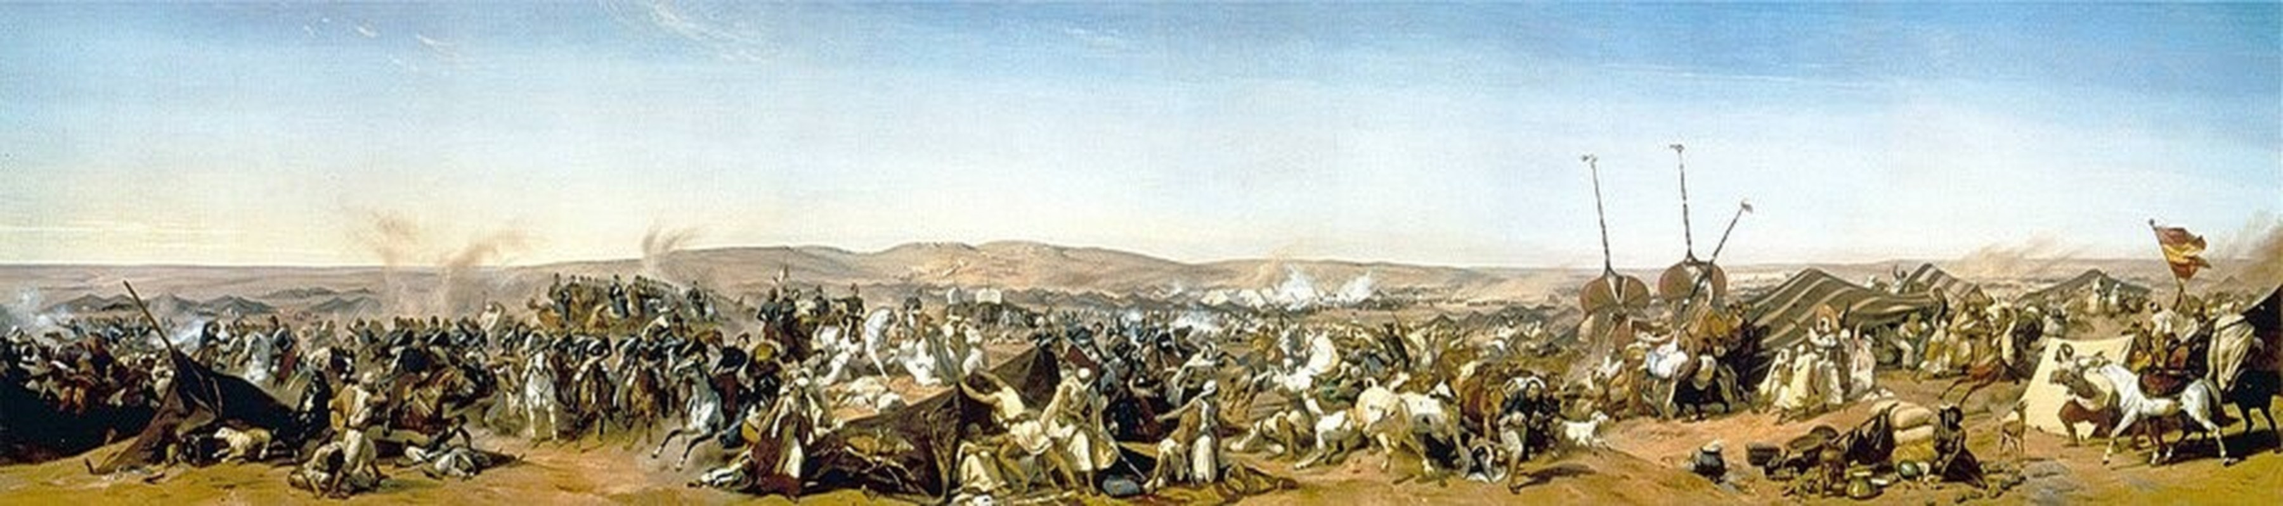
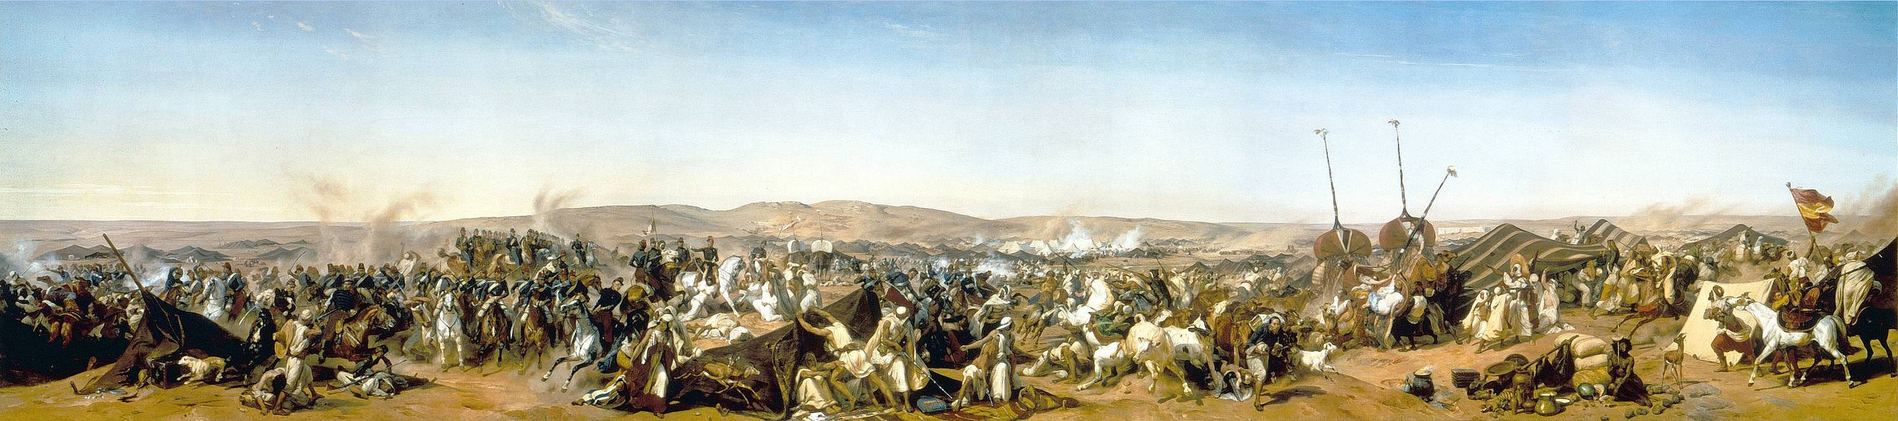
Salle secrète home cinéma, Smalah HD, inscription WikiMuseum, fléchage au sol
Claude-Session: https://claude.ai/code/session_01H165k6ZwgKF7W3PAdfAXpL

diff --git a/index.html b/index.html
@@ -108,7 +108,7 @@ button:focus-visible{outline:2px solid var(--gilt);outline-offset:2px}
 
 <script src="https://cdnjs.cloudflare.com/ajax/libs/three.js/r128/three.min.js"></script>
 <script>
-const ART = {"falaises": {"src": "img/falaises.jpg", "a": 1.251}, "meragitee": {"src": "img/meragitee.jpg", "a": 1.241}, "trouville": {"src": "img/trouville.jpg", "a": 1.215}, "tilleuls": {"src": "img/tilleuls.jpg", "a": 0.798}, "peupliers": {"src": "img/peupliers.jpg", "a": 0.988}, "grandcanal": {"src": "img/grandcanal.jpg", "a": 1.259}, "bassin": {"src": "img/bassin.jpg", "a": 1.018}, "nympheas": {"src": "img/nympheas.jpg", "a": 1.662}, "ombrelle": {"src": "img/ombrelle.jpg", "a": 0.677}, "irene": {"src": "img/irene.jpg", "a": 0.831}, "durandruel": {"src": "img/durandruel.jpg", "a": 0.798}, "murer": {"src": "img/murer.jpg", "a": 0.832}, "nucouche": {"src": "img/nucouche.jpg", "a": 1.253}, "longchamp": {"src": "img/longchamp.jpg", "a": 1.227}, "terrasse": {"src": "img/terrasse.jpg", "a": 0.802}, "amandier": {"src": "img/amandier.jpg", "a": 1.267}, "iris": {"src": "img/iris.jpg", "a": 1.308}, "cypres": {"src": "img/cypres.jpg", "a": 0.793}, "paysanne": {"src": "img/paysanne.jpg", "a": 0.767}, "breton": {"src": "img/breton.jpg", "a": 1.441}, "iaorana": {"src": "img/iaorana.jpg", "a": 0.776}, "arearea": {"src": "img/arearea.jpg", "a": 1.641}, "victoire": {"src": "img/victoire.jpg", "a": 1.261}, "chaise": {"src": "img/chaise.jpg", "a": 0.78}, "tournesols": {"src": "img/tournesols.jpg", "a": 1.253}, "danse2": {"src": "img/danse2.jpg", "a": 1.452}, "joie": {"src": "img/joie.jpg", "a": 1.376}, "odalisque": {"src": "img/odalisque.jpg", "a": 0.743}, "femmeartiste": {"src": "img/femmeartiste.jpg", "a": 0.656}, "collioure": {"src": "img/collioure.jpg", "a": 1.23}, "derain": {"src": "img/derain.jpg", "a": 1.471}, "chakoska": {"src": "img/chakoska.jpg", "a": 0.551}, "alger": {"src": "img/alger.jpg", "a": 1.659}, "promenade": {"src": "img/promenade.jpg", "a": 0.819}, "montbriand": {"src": "img/montbriand.jpg", "a": 1.235}, "pastorale": {"src": "img/pastorale.jpg", "a": 1.14}, "artilleurs": {"src": "img/artilleurs.jpg", "a": 1.251}, "probleme": {"src": "img/probleme.jpg", "a": 1.629}, "fermeprov": {"src": "img/fermeprov.jpg", "a": 1.326}, "tortoni": {"src": "img/tortoni.jpg", "a": 1.329}, "fenetre": {"src": "img/fenetre.jpg", "a": 0.69}, "femmesalger": {"src": "img/femmesalger.jpg", "a": 1.285}, "moulin": {"src": "img/moulin.jpg", "a": 1.345}, "friedsoleil": {"src": "img/friedsoleil.jpg", "a": 1.389}, "saintadresse": {"src": "img/saintadresse.jpg", "a": 1.376}, "musiciens": {"src": "img/musiciens.jpg", "a": 1.315}, "vague": {"src": "img/vague.jpg", "a": 1.488}, "gonzague": {"src": "img/gonzague.jpg", "a": 0.737}, "botticelli": {"src": "img/botticelli.jpg", "a": 1.024}, "parmigianino": {"src": "img/parmigianino.jpg", "a": 0.426}, "gardeuse": {"src": "img/gardeuse.jpg", "a": 0.475}, "satyres": {"src": "img/satyres.jpg", "a": 0.757}, "giorgione": {"src": "img/giorgione.jpg", "a": 0.893}, "sibylle": {"src": "img/sibylle.jpg", "a": 0.831}, "fontaine": {"src": "img/fontaine.jpg", "a": 0.504}, "ottmann": {"src": "img/ottmann.jpg", "a": 1.304}, "ruines": {"src": "img/ruines.jpg", "a": 1.107}, "communiante": {"src": "img/communiante.jpg", "a": 0.674}, "repine": {"src": "img/repine.jpg", "a": 0.672}, "soirnuages": {"src": "img/soirnuages.jpg", "a": 1.449}, "lippi": {"src": "img/lippi.jpg", "a": 0.694}, "parthenon": {"src": "img/parthenon.jpg", "a": 1.627}, "saintluc": {"src": "img/saintluc.jpg", "a": 0.919}, "fideles": {"src": "img/fideles.jpg", "a": 1.0}, "abricots": {"src": "img/abricots.jpg", "a": 1.62}, "clavecin": {"src": "img/clavecin.jpg", "a": 0.644}, "vieille": {"src": "img/vieille.jpg", "a": 0.655}, "ermita": {"src": "img/ermita.jpg", "a": 1.052}, "daubigny": {"src": "img/daubigny.jpg", "a": 1.627}, "abraham": {"src": "img/abraham.jpg", "a": 1.28}, "rochejaquelein": {"src": "img/rochejaquelein.jpg", "a": 0.639}, "cordoba": {"src": "img/cordoba.jpg", "a": 0.721}, "sanadrian": {"src": "img/sanadrian.jpg", "a": 0.596}, "tobie": {"src": "img/tobie.jpg", "a": 0.49}, "puitsnoir": {"src": "img/puitsnoir.jpg", "a": 1.34}, "pecheurs": {"src": "img/pecheurs.jpg", "a": 1.329}, "adoration": {"src": "img/adoration.jpg", "a": 0.711}, "goodhart": {"src": "img/goodhart.jpg", "a": 0.566}, "grandpere": {"src": "img/grandpere.jpg", "a": 0.755}, "vertueuse": {"src": "img/vertueuse.jpg", "a": 0.743}, "greuze": {"src": "img/greuze.jpg", "a": 0.833}, "mestre": {"src": "img/mestre.jpg", "a": 1.471}, "titien": {"src": "img/titien.jpg", "a": 0.573}, "okazaki": {"src": "img/okazaki.jpg", "a": 1.453}, "messine": {"src": "img/messine.jpg", "a": 1.365}, "portinari": {"src": "img/portinari.jpg", "a": 0.738}, "dansevie": {"src": "img/dansevie.jpg", "a": 1.524}, "apollon": {"src": "img/apollon.jpg", "a": 0.677}, "cantique": {"src": "img/cantique.jpg", "a": 1.07}, "toton": {"src": "img/toton.jpg", "a": 1.145}, "assomption": {"src": "img/assomption.jpg", "a": 0.512}, "falstaff": {"src": "img/falstaff.jpg", "a": 1.251}, "coree": {"src": "img/coree.jpg", "a": 0.483}, "victorienne": {"src": "img/victorienne.jpg", "a": 1.222}, "bainturc": {"src": "img/bainturc.jpg", "a": 0.799}, "drapeaux": {"src": "img/drapeaux.jpg", "a": 1.276}, "automne": {"src": "img/automne.jpg", "a": 0.75}, "eustache": {"src": "img/eustache.jpg", "a": 1.215}, "leversoleil": {"src": "img/leversoleil.jpg", "a": 1.354}, "peche": {"src": "img/peche.jpg", "a": 2.286}, "marcaurele": {"src": "img/marcaurele.jpg", "a": 1.287}, "fayoum": {"src": "img/fayoum.jpg", "a": 0.466}, "arbrevie": {"src": "img/arbrevie.jpg", "a": 0.527}, "lapicque": {"src": "img/lapicque.jpg", "a": 0.871}, "smalah": {"src": "img/smalah.jpg", "a": 4.507}, "balancoire": {"src": "img/balancoire.jpg", "a": 0.783}};
+const ART = {"falaises": {"src": "img/falaises.jpg", "a": 1.251}, "meragitee": {"src": "img/meragitee.jpg", "a": 1.241}, "trouville": {"src": "img/trouville.jpg", "a": 1.215}, "tilleuls": {"src": "img/tilleuls.jpg", "a": 0.798}, "peupliers": {"src": "img/peupliers.jpg", "a": 0.988}, "grandcanal": {"src": "img/grandcanal.jpg", "a": 1.259}, "bassin": {"src": "img/bassin.jpg", "a": 1.018}, "nympheas": {"src": "img/nympheas.jpg", "a": 1.662}, "ombrelle": {"src": "img/ombrelle.jpg", "a": 0.677}, "irene": {"src": "img/irene.jpg", "a": 0.831}, "durandruel": {"src": "img/durandruel.jpg", "a": 0.798}, "murer": {"src": "img/murer.jpg", "a": 0.832}, "nucouche": {"src": "img/nucouche.jpg", "a": 1.253}, "longchamp": {"src": "img/longchamp.jpg", "a": 1.227}, "terrasse": {"src": "img/terrasse.jpg", "a": 0.802}, "amandier": {"src": "img/amandier.jpg", "a": 1.267}, "iris": {"src": "img/iris.jpg", "a": 1.308}, "cypres": {"src": "img/cypres.jpg", "a": 0.793}, "paysanne": {"src": "img/paysanne.jpg", "a": 0.767}, "breton": {"src": "img/breton.jpg", "a": 1.441}, "iaorana": {"src": "img/iaorana.jpg", "a": 0.776}, "arearea": {"src": "img/arearea.jpg", "a": 1.641}, "victoire": {"src": "img/victoire.jpg", "a": 1.261}, "chaise": {"src": "img/chaise.jpg", "a": 0.78}, "tournesols": {"src": "img/tournesols.jpg", "a": 1.253}, "danse2": {"src": "img/danse2.jpg", "a": 1.452}, "joie": {"src": "img/joie.jpg", "a": 1.376}, "odalisque": {"src": "img/odalisque.jpg", "a": 0.743}, "femmeartiste": {"src": "img/femmeartiste.jpg", "a": 0.656}, "collioure": {"src": "img/collioure.jpg", "a": 1.23}, "derain": {"src": "img/derain.jpg", "a": 1.471}, "chakoska": {"src": "img/chakoska.jpg", "a": 0.551}, "alger": {"src": "img/alger.jpg", "a": 1.659}, "promenade": {"src": "img/promenade.jpg", "a": 0.819}, "montbriand": {"src": "img/montbriand.jpg", "a": 1.235}, "pastorale": {"src": "img/pastorale.jpg", "a": 1.14}, "artilleurs": {"src": "img/artilleurs.jpg", "a": 1.251}, "probleme": {"src": "img/probleme.jpg", "a": 1.629}, "fermeprov": {"src": "img/fermeprov.jpg", "a": 1.326}, "tortoni": {"src": "img/tortoni.jpg", "a": 1.329}, "fenetre": {"src": "img/fenetre.jpg", "a": 0.69}, "femmesalger": {"src": "img/femmesalger.jpg", "a": 1.285}, "moulin": {"src": "img/moulin.jpg", "a": 1.345}, "friedsoleil": {"src": "img/friedsoleil.jpg", "a": 1.389}, "saintadresse": {"src": "img/saintadresse.jpg", "a": 1.376}, "musiciens": {"src": "img/musiciens.jpg", "a": 1.315}, "vague": {"src": "img/vague.jpg", "a": 1.488}, "gonzague": {"src": "img/gonzague.jpg", "a": 0.737}, "botticelli": {"src": "img/botticelli.jpg", "a": 1.024}, "parmigianino": {"src": "img/parmigianino.jpg", "a": 0.426}, "gardeuse": {"src": "img/gardeuse.jpg", "a": 0.475}, "satyres": {"src": "img/satyres.jpg", "a": 0.757}, "giorgione": {"src": "img/giorgione.jpg", "a": 0.893}, "sibylle": {"src": "img/sibylle.jpg", "a": 0.831}, "fontaine": {"src": "img/fontaine.jpg", "a": 0.504}, "ottmann": {"src": "img/ottmann.jpg", "a": 1.304}, "ruines": {"src": "img/ruines.jpg", "a": 1.107}, "communiante": {"src": "img/communiante.jpg", "a": 0.674}, "repine": {"src": "img/repine.jpg", "a": 0.672}, "soirnuages": {"src": "img/soirnuages.jpg", "a": 1.449}, "lippi": {"src": "img/lippi.jpg", "a": 0.694}, "parthenon": {"src": "img/parthenon.jpg", "a": 1.627}, "saintluc": {"src": "img/saintluc.jpg", "a": 0.919}, "fideles": {"src": "img/fideles.jpg", "a": 1.0}, "abricots": {"src": "img/abricots.jpg", "a": 1.62}, "clavecin": {"src": "img/clavecin.jpg", "a": 0.644}, "vieille": {"src": "img/vieille.jpg", "a": 0.655}, "ermita": {"src": "img/ermita.jpg", "a": 1.052}, "daubigny": {"src": "img/daubigny.jpg", "a": 1.627}, "abraham": {"src": "img/abraham.jpg", "a": 1.28}, "rochejaquelein": {"src": "img/rochejaquelein.jpg", "a": 0.639}, "cordoba": {"src": "img/cordoba.jpg", "a": 0.721}, "sanadrian": {"src": "img/sanadrian.jpg", "a": 0.596}, "tobie": {"src": "img/tobie.jpg", "a": 0.49}, "puitsnoir": {"src": "img/puitsnoir.jpg", "a": 1.34}, "pecheurs": {"src": "img/pecheurs.jpg", "a": 1.329}, "adoration": {"src": "img/adoration.jpg", "a": 0.711}, "goodhart": {"src": "img/goodhart.jpg", "a": 0.566}, "grandpere": {"src": "img/grandpere.jpg", "a": 0.755}, "vertueuse": {"src": "img/vertueuse.jpg", "a": 0.743}, "greuze": {"src": "img/greuze.jpg", "a": 0.833}, "mestre": {"src": "img/mestre.jpg", "a": 1.471}, "titien": {"src": "img/titien.jpg", "a": 0.573}, "okazaki": {"src": "img/okazaki.jpg", "a": 1.453}, "messine": {"src": "img/messine.jpg", "a": 1.365}, "portinari": {"src": "img/portinari.jpg", "a": 0.738}, "dansevie": {"src": "img/dansevie.jpg", "a": 1.524}, "apollon": {"src": "img/apollon.jpg", "a": 0.677}, "cantique": {"src": "img/cantique.jpg", "a": 1.07}, "toton": {"src": "img/toton.jpg", "a": 1.145}, "assomption": {"src": "img/assomption.jpg", "a": 0.512}, "falstaff": {"src": "img/falstaff.jpg", "a": 1.251}, "coree": {"src": "img/coree.jpg", "a": 0.483}, "victorienne": {"src": "img/victorienne.jpg", "a": 1.222}, "bainturc": {"src": "img/bainturc.jpg", "a": 0.799}, "drapeaux": {"src": "img/drapeaux.jpg", "a": 1.276}, "automne": {"src": "img/automne.jpg", "a": 0.75}, "eustache": {"src": "img/eustache.jpg", "a": 1.215}, "leversoleil": {"src": "img/leversoleil.jpg", "a": 1.354}, "peche": {"src": "img/peche.jpg", "a": 2.286}, "marcaurele": {"src": "img/marcaurele.jpg", "a": 1.287}, "fayoum": {"src": "img/fayoum.jpg", "a": 0.466}, "arbrevie": {"src": "img/arbrevie.jpg", "a": 0.527}, "lapicque": {"src": "img/lapicque.jpg", "a": 0.871}, "smalah": {"src": "img/smalah.jpg", "a": 4.509}, "balancoire": {"src": "img/balancoire.jpg", "a": 0.783}};
 /* Œuvres : clé, titre, artiste, hauteur × largeur en cm, ~ = dimensions approximatives */
 const WORKS = {
  1: [
@@ -444,7 +444,7 @@ const lam = c => new THREE.MeshLambertMaterial({color: c});
 const mats = {
   E: lam(0xe9e2d2), 1: lam(0xd8cbb2), 2: lam(0x2f4a3a), 3: lam(0x9c5a3c), 4: lam(0x1b1b26), 5: lam(0x7a2a28), 6: lam(0x5b5a4a),
   7: lam(0xb9cfd6), 8: lam(0x34505c), 9: lam(0x8a8174), 10: lam(0xeae5dc), 11: lam(0x2a3a5c), c: lam(0x9b8b72), 12: lam(0xb04a2e),
-  A: lam(0xc8c4bc), K: lam(0x3a2433), P: lam(0xdfe6e0), pass: lam(0xa89c88),
+  A: lam(0xc8c4bc), K: lam(0x3a2433), S: lam(0x120c14), P: lam(0xdfe6e0), pass: lam(0xa89c88),
   bench: lam(0x3b2f27), dark: lam(0x2a2420)
 };
 const walls = [], paintGroups = [], segs = [], solids = [], hung = [];
@@ -502,13 +502,17 @@ rectRoom('P', 14, 36.5, 30, 46, {h: 4, doors: {W: [[37.2, 38.8]]}, noHang: true}
 /* Entrée : rotonde */
 const EC = {x: 4.5, z: 31, r: 4}; ROOMH.E = H;
 {
-  const open = [0, -Math.PI/2, Math.PI/2], n = 64;
+  const open = [0, -Math.PI/2, Math.PI/2, Math.PI], n = 64;
   for (let i = 0; i < n; i++){
     const t1 = i/n*2*Math.PI, t2 = (i+1)/n*2*Math.PI, tm = (t1 + t2)/2;
     if (open.some(a => Math.abs(Math.atan2(Math.sin(tm - a), Math.cos(tm - a))) < .23)) continue;
     wall(EC.x + EC.r*Math.cos(t1), EC.z + EC.r*Math.sin(t1), EC.x + EC.r*Math.cos(t2), EC.z + EC.r*Math.sin(t2), mats.E);
   }
 }
+/* Salle secrète (home cinéma) derrière l’accueil */
+rectRoom('S', -9, 26.5, -0.2, 35.5, {h: 3.6, doors: {E: [[30.22, 31.78]]}, noHang: true});
+pair([-0.2, 30.22], [-0.2, 31.78], [0.62, 30.22], [0.62, 31.78]);
+{ const lin = new THREE.Mesh(new THREE.BoxGeometry(.95, H - 2.7, 1.8), mats.E); lin.position.set(.17, 2.7 + (H - 2.7)/2, 31); scene.add(lin); walls.push(lin); }
 /* Salle 10 : ovale 18 × 9 m */
 const CX = 22, CZ = 5, RX = 9, RZ = 4.5; ROOMH[10] = H;
 const E10 = t => [CX + RX*Math.cos(t), CZ + RZ*Math.sin(t)];
@@ -609,7 +613,7 @@ function hangRoom(room, keep){
 hangRoom(10, true);
 
 /* ---------- où suis-je ? ---------- */
-const ROOMS = {W: ['Faille spatiale', 'Couloir de l’hyperespace'], E: ['Entrée', 'Accueil du musée'], 1: ['Salle 1', 'Antiquité et Orient'], 2: ['Salle 2', 'Gothique et première Renaissance'], 3: ['Salle 3', 'Renaissance florentine'], 4: ['Salle 4', 'La Sixtine'], 5: ['Salle 5', 'Venise et maniérisme'], 6: ['Salle 6', 'Le Grand Siècle'], 7: ['Salle 7', 'Lumières et rococo'], 8: ['Salle 8', 'Romantisme et orientalisme'], 9: ['Salle 9', 'Réalisme et symbolisme'], 10: ['Salle 10', 'Impressionnisme'], 11: ['Salle 11', 'Post-impressionnisme'], c: ['Couloir', 'Couloir de l’amitié'], 12: ['Salle 12', 'Fauvisme et modernités'], A: ['Archives', 'Œuvres disparues et archives'], K: ['Salle de concert', 'Nodí tri · Kuatu Kadéra'], P: ['Terrain de sport', 'Le foot du musée'], p: ['Passage', 'Entre deux salles']};
+const ROOMS = {W: ['Faille spatiale', 'Couloir de l’hyperespace'], E: ['Entrée', 'Accueil du musée'], 1: ['Salle 1', 'Antiquité et Orient'], 2: ['Salle 2', 'Gothique et première Renaissance'], 3: ['Salle 3', 'Renaissance florentine'], 4: ['Salle 4', 'La Sixtine'], 5: ['Salle 5', 'Venise et maniérisme'], 6: ['Salle 6', 'Le Grand Siècle'], 7: ['Salle 7', 'Lumières et rococo'], 8: ['Salle 8', 'Romantisme et orientalisme'], 9: ['Salle 9', 'Réalisme et symbolisme'], 10: ['Salle 10', 'Impressionnisme'], 11: ['Salle 11', 'Post-impressionnisme'], c: ['Couloir', 'Couloir de l’amitié'], 12: ['Salle 12', 'Fauvisme et modernités'], A: ['Archives', 'Œuvres disparues et archives'], K: ['Salle de concert', 'Nodí tri · Kuatu Kadéra'], P: ['Terrain de sport', 'Le foot du musée'], S: ['Salle secrète', 'Home cinéma'], p: ['Passage', 'Entre deux salles']};
 function roomAt(x, z){
   if (x > 32.05 && x < 33.95 && z > 9.2 && z < 21.6) return 'W';
   if (((x-CX)/RX)**2 + ((z-CZ)/RZ)**2 < 1) return '10';
@@ -1272,7 +1276,7 @@ function initAudio(){
 function updateAudio(){
   if (!actx) return;
   const d = Math.hypot(pos.x - 6.5, pos.z - 42.5), v = soundOn ? Math.pow(Math.max(0, 1 - d/18), 1.6)*(songState === 'playing' ? 1 : .7) : 0;
-  master.gain.setTargetAtTime(v, actx.currentTime, .25);
+  master.gain.setTargetAtTime(roomAt(pos.x, pos.z) === 'S' ? 0 : v, actx.currentTime, .25);
 }
 addEventListener('pointerdown', initAudio); addEventListener('keydown', initAudio);
 $('bSound').onclick = () => { soundOn = !soundOn; $('bSound').setAttribute('aria-pressed', soundOn); if (soundOn) initAudio(); };
@@ -1392,7 +1396,8 @@ $('qNext').onclick = () => {
     if (win){ validated[qRoom] = true; try { localStorage.setItem('wm-quiz', JSON.stringify(validated)); } catch(e){} }
     const n = refreshScore();
     $('qRoom').textContent = (ROOMS[qRoom] ? ROOMS[qRoom][0] : 'Salle') + ' · résultat';
-    $('qQ').textContent = win ? (n === 12 ? 'Bravo, les 12 salles sont validées !' : 'Salle validée !') : 'Pas encore…';
+    if (win && n === 12) secretUnlocked(true);
+    $('qQ').textContent = win ? (n === 12 ? 'Bravo, les 12 salles sont validées ! Une porte secrète vient de s’ouvrir dans le hall d’entrée…' : 'Salle validée !') : 'Pas encore…';
     $('qOpts').innerHTML = ''; $('qFact').textContent = qScore + '/3 bonnes réponses.' + (win ? ' Salles validées : ' + n + '/12.' : ' Il en faut 2 sur 3 pour valider la salle.');
     $('qNext').textContent = win ? 'Continuer' : 'Rejouer'; return;
   }
@@ -1451,7 +1456,7 @@ function viewArt(p){
 }
 const LINK = {'E-1': [[8.0, 31], [11, 31]], '1-2': [[15.4, 31], [17.6, 31]], '2-3': [[23.4, 31], [25.6, 31]], '3-4': [[31.4, 31], [33.6, 31]], '4-5': [[43, 29.7], [43, 27.3]], '5-6': [[39, 20.7], [39, 18.3]], '6-7': [[37, 11.7], [37, 9.0]], '7-8': [[35.2, 7.0], [33.75, 8.6], [33, 11.6], [33, 19.9], [31.2, 19.9]], '8-9': [[12, 19.3], [12, 16.7]], '9-10': [[17, 11.7], [17, 8.0]], '10-11': [[14.0, 5], [10.3, 5]], '11-c': [[6, 8.3], [6, 9.7]], 'c-12': [[6, 14.3], [6, 15.7]], '12-A': [[7.1, 22.3], [7.1, 24.6]], 'A-E': [[4.5, 25.3], [4.5, 28]], 'E-K': [[4.5, 34], [4.5, 37.3]], 'K-P': [[12.3, 38], [14.8, 38]]};
 function link(k){ const P = LINK[k]; for (let i = 0; i < P.length; i++){ const a = P[i], b = P[i+1] || [a[0] + (a[0] - P[i-1][0]), a[1] + (a[1] - P[i-1][1])]; way(a[0], a[1], b[0], b[1]); } }
-way(EC.x, EC.z, 10, 31, 1.5);
+stops.push({x: EC.x + .6, z: EC.z, yaw: yawTo(-1, 0), pitch: .3, hold: 3.2}); way(EC.x, EC.z, 10, 31, .3);
 const ORDER = ['1', '2', '3', '4', '5', '6', '7', '8', '9', '10', '11', 'c', '12', 'A'];
 let prev = 'E';
 for (const r of ORDER){
@@ -1466,7 +1471,7 @@ link('K-P');
 way(22, 38.6, 22, 41.25, 6);
 stops.push({x: 22, z: 38.4, yaw: yawTo(0, 1), pitch: 0, hold: 4, end: true});
 
-let seg = 0, segT = 0, holdT = 0, holding = false;
+let seg = 0, segT = 0, holdT = 0, holding = true;
 const ease = t => t < .5 ? 2*t*t : 1 - (-2*t + 2)**2 / 2;
 const reduce = matchMedia('(prefers-reduced-motion: reduce)').matches;
 function segDur(a, b){ return Math.max(.9, Math.hypot(b.x-a.x, b.z-a.z) / 1.6, Math.abs(angDiff(a.yaw, b.yaw)) / 1.2); }
@@ -1574,7 +1579,7 @@ function freeStep(dt){
   if (sitting){ if (keys.fwd || keys.back || keys.jump){ standUp(); keys.jump = false; } else { const a = actionTarget(); if (a !== lastAct){ lastAct = a; $('bAct').hidden = !a; if (a) $('bAct').textContent = a; } return; } }
   const v = (keys.fwd ? 1 : 0) - (keys.back ? 1 : 0);
   const sp = 2.4*(1 + 2.6*warp);
-  if (v){ pos.x = Math.max(-2, Math.min(46, pos.x - Math.sin(pos.yaw)*v*dt*sp)); pos.z = Math.max(-2, Math.min(47, pos.z - Math.cos(pos.yaw)*v*dt*sp)); }
+  if (v){ pos.x = Math.max(-9.5, Math.min(46, pos.x - Math.sin(pos.yaw)*v*dt*sp)); pos.z = Math.max(-2, Math.min(47, pos.z - Math.cos(pos.yaw)*v*dt*sp)); }
   collide();
   const gnd = groundAt();
   if (keys.jump && pos.y <= gnd + .001) pos.vy = 4.3;
@@ -1594,13 +1599,159 @@ $('bFree').onclick = () => setMode('free');
 $('bSkip').onclick = skip;
 setTimeout(() => { if (mode === 'tour' && seg < 2) setCartel(null); }, 5000);
 
+/* ---------- hall : inscription WikiMuseum ---------- */
+{
+  const back = new THREE.Mesh(new THREE.BoxGeometry(.3, 1.15, 3.0), lam(0x1d1914)); back.position.set(.8, 3.42, 31); scene.add(back);
+  const tex = canvasTex(1536, 576, (g, w, h) => {
+    g.fillStyle = '#16120e'; g.fillRect(0, 0, w, h);
+    g.strokeStyle = '#c9a54a'; g.lineWidth = 10; g.strokeRect(22, 22, w - 44, h - 44); g.lineWidth = 3; g.strokeRect(44, 44, w - 88, h - 88);
+    const gr = g.createLinearGradient(0, 120, 0, 330); gr.addColorStop(0, '#f6e3a1'); gr.addColorStop(.55, '#d4ae4f'); gr.addColorStop(1, '#a27a26');
+    g.fillStyle = gr; g.textAlign = 'center'; g.textBaseline = 'middle';
+    g.font = '600 196px Georgia, "Times New Roman", serif'; g.fillText('WikiMuseum', w/2, 238);
+    g.fillStyle = '#e8d7a6'; g.font = 'italic 64px Georgia, "Times New Roman", serif'; g.fillText('by Cartalade Nicolas and Claudio', w/2, 418);
+    g.fillStyle = '#c9a54a'; g.fillRect(w/2 - 260, 338, 520, 3);
+  });
+  const p = new THREE.Mesh(new THREE.PlaneGeometry(3.0, 1.125), new THREE.MeshBasicMaterial({map: tex})); p.position.set(.956, 3.42, 31); p.rotation.y = Math.PI/2; scene.add(p);
+}
+
+/* ---------- sens de visite au sol ---------- */
+{
+  const tex = canvasTex(128, 128, (g, w, h) => {
+    g.strokeStyle = 'rgba(201,165,74,.95)'; g.lineWidth = 17; g.lineCap = 'round'; g.lineJoin = 'round';
+    for (const y of [44, 84]){ g.beginPath(); g.moveTo(26, y + 22); g.lineTo(64, y - 14); g.lineTo(102, y + 22); g.stroke(); }
+  });
+  const mat = new THREE.MeshBasicMaterial({map: tex, transparent: true, opacity: .8, depthWrite: false, polygonOffset: true, polygonOffsetFactor: -2});
+  const MAIN = [[6.2, 31], [11, 31], [15.4, 31], [17.6, 31], [23.4, 31], [25.6, 31], [31.4, 31], [33.6, 31], [43, 31], [43, 27.3], [39, 20.7], [39, 18.3], [37, 11.7], [37, 9.0], [35.2, 7.0], [33.75, 8.6], [33, 11.6], [33, 19.9], [31.2, 19.9], [28, 22.25], [15.5, 22.25], [12, 19.3], [12, 16.7], [17, 11.7], [17, 8.0], [14, 5], [10.3, 5], [6, 8.3], [6, 9.7], [6, 14.3], [6, 15.7], [7.1, 22.3], [7.1, 24.6], [4.5, 25.3], [4.5, 28], [2.7, 31], [4.5, 34], [4.5, 37.3], [12.3, 38], [14.8, 38]];
+  const BACK = [[14.8, 38], [12.3, 38], [5.2, 37.4], [4.5, 34.4], [6.3, 32.4], [7.4, 31.3]];
+  const pts = [];
+  for (const P of [MAIN, BACK]){
+    let carry = .9;
+    for (let i = 0; i < P.length - 1; i++){
+      const [ax, az] = P[i], [bx, bz] = P[i+1], L = Math.hypot(bx - ax, bz - az), dx = (bx - ax)/L, dz = (bz - az)/L;
+      for (let s = carry; s < L; s += 2.1){ pts.push([ax + dx*s - dz*.35, az + dz*s + dx*.35, Math.atan2(-dx, -dz)]); carry = s + 2.1 - L; }
+      if (carry > L) carry -= L;
+    }
+  }
+  const im = new THREE.InstancedMesh(new THREE.PlaneGeometry(.5, .5), mat, pts.length), q = new THREE.Quaternion(), flat = new THREE.Quaternion().setFromAxisAngle(new THREE.Vector3(1, 0, 0), -Math.PI/2), m4 = new THREE.Matrix4(), one = new THREE.Vector3(1, 1, 1);
+  pts.forEach(([x, z, a], i) => { q.setFromAxisAngle(new THREE.Vector3(0, 1, 0), a).multiply(flat); m4.compose(new THREE.Vector3(x, .016, z), q, one); im.setMatrixAt(i, m4); });
+  scene.add(im);
+}
+
+/* ---------- salle secrète : home cinéma ---------- */
+const DOOR = {x: .45, z: 31, w: 1.58};
+const doorMesh = new THREE.Mesh(new THREE.BoxGeometry(.12, 2.7, DOOR.w), mats.E); doorMesh.position.set(DOOR.x, 1.35, DOOR.z); scene.add(doorMesh); walls.push(doorMesh);
+const doorSeg = [DOOR.x, DOOR.z - DOOR.w/2, DOOR.x, DOOR.z + DOOR.w/2]; segs.push(doorSeg);
+const doorTrim = new THREE.Group(); doorTrim.visible = false; scene.add(doorTrim);
+{ const gold = new THREE.MeshBasicMaterial({color: 0xd4ae4f}); for (const z of [DOOR.z - DOOR.w/2 - .03, DOOR.z + DOOR.w/2 + .03]) at(doorTrim, new THREE.Mesh(new THREE.BoxGeometry(.04, 2.76, .05), gold), .63, 1.38, z); at(doorTrim, new THREE.Mesh(new THREE.BoxGeometry(.04, .05, DOOR.w + .12), gold), .66, 2.74, DOOR.z); }
+let unlocked = false, doorOpen = 0, doorHinted = false, secretSeen = false;
+function allQuizDone(){ return Object.keys(QUIZ).every(r => validated[r]); }
+function secretUnlocked(announce){
+  if (unlocked) return; unlocked = true; doorTrim.visible = true;
+  if (announce) setTimeout(() => say('Salle secrète débloquée !', 'Une porte vient de s’ouvrir dans le mur de l’accueil, derrière le point de départ.', 5000), 400);
+}
+if (allQuizDone()) secretUnlocked(false);
+{
+  const room = new THREE.Group(); scene.add(room);
+  const ceil = new THREE.Mesh(new THREE.PlaneGeometry(8.8, 9), lam(0x0a070c)); ceil.rotation.x = Math.PI/2; ceil.position.set(-4.6, 3.59, 31); room.add(ceil);
+  const stars = new THREE.BufferGeometry(), sp = [];
+  for (let i = 0; i < 260; i++) sp.push(-8.9 + Math.random()*8.6, 3.575, 26.6 + Math.random()*8.8);
+  stars.setAttribute('position', new THREE.Float32BufferAttribute(sp, 3));
+  room.add(new THREE.Points(stars, new THREE.PointsMaterial({color: 0xfff1c8, size: .035})));
+  const carpet = new THREE.Mesh(new THREE.PlaneGeometry(8.8, 9), lam(0x26080d)); carpet.rotation.x = -Math.PI/2; carpet.position.set(-4.6, .012, 31); room.add(carpet);
+  const warm = new THREE.MeshBasicMaterial({color: 0xffc977});
+  for (const x of [-7.4, -5.2, -3.0, -1.0]) for (const z of [26.62, 35.38]) at(room, new THREE.Mesh(new THREE.BoxGeometry(.28, .12, .06), warm), x, 2.2, z);
+  const lamp = new THREE.PointLight(0xffb070, .5, 9); lamp.position.set(-4.6, 3.1, 31); room.add(lamp);
+  // estrade, cadre et rideaux
+  at(room, new THREE.Mesh(new THREE.BoxGeometry(.7, .25, 7.4), lam(0x1a1216)), -8.65, .125, 31); solid(-8.65, 31, .35, 3.7, 0, .25);
+  at(room, new THREE.Mesh(new THREE.BoxGeometry(.08, 3.0, 5.1), new THREE.MeshLambertMaterial({color: 0x050505})), -8.86, 2.2, 31);
+  const velvet = canvasTex(256, 256, (g, w, h) => { for (let x = 0; x < w; x++){ const v = 90 + 60*Math.sin(x/w*Math.PI*10); g.fillStyle = 'rgb(' + v + ',' + (v*.12|0) + ',' + (v*.18|0) + ')'; g.fillRect(x, 0, 1, h); } });
+  for (const z of [27.6, 34.4]) at(room, new THREE.Mesh(new THREE.BoxGeometry(.18, 3.4, 1.6), new THREE.MeshLambertMaterial({map: velvet})), -8.8, 1.9, z);
+  // fauteuils
+  const red = lam(0x52070f), dark = lam(0x22050a);
+  function armchair(){
+    const c = new THREE.Group();
+    at(c, new THREE.Mesh(new THREE.BoxGeometry(.6, .42, .58), red), 0, .21, .02);
+    at(c, new THREE.Mesh(new THREE.BoxGeometry(.62, .62, .14), red), 0, .62, -.25);
+    for (const x of [-.32, .32]) at(c, new THREE.Mesh(new THREE.BoxGeometry(.08, .6, .6), dark), x, .3, 0);
+    return c;
+  }
+  for (const x of [-5.4, -4.1, -2.8]) for (const z of [29.1, 29.9, 32.1, 32.9]){
+    const c = armchair(); c.position.set(x, 0, z); c.rotation.y = -Math.PI/2; room.add(c);
+    solid(x, z, .32, .34, 0, .47); SEATS.push({kind: 'chair', x, z, face: Math.PI/2, top: .47});
+  }
+  // machine à pop-corn
+  const pc = new THREE.Group(); pc.position.set(-1.0, 0, 27.2); room.add(pc);
+  at(pc, new THREE.Mesh(new THREE.BoxGeometry(.6, .8, .5), lam(0xb3202a)), 0, .4, 0);
+  at(pc, new THREE.Mesh(new THREE.BoxGeometry(.56, .55, .46), new THREE.MeshLambertMaterial({color: 0xfff1b0, transparent: true, opacity: .55})), 0, 1.08, 0);
+  at(pc, new THREE.Mesh(new THREE.BoxGeometry(.62, .12, .52), lam(0xb3202a)), 0, 1.41, 0);
+  solid(-1.0, 27.2, .32, .27, 0, 1.47);
+}
+/* écran : diaporama (à remplir plus tard dans SLIDES, ex. 'slides/01.jpg') */
+const SLIDES = [];
+const screenMat = new THREE.MeshBasicMaterial({map: canvasTex(1280, 720, (g, w, h) => {
+  const gr = g.createRadialGradient(w/2, h/2, 40, w/2, h/2, w*.7); gr.addColorStop(0, '#1d2236'); gr.addColorStop(1, '#05060c'); g.fillStyle = gr; g.fillRect(0, 0, w, h);
+  g.textAlign = 'center'; g.textBaseline = 'middle';
+  g.fillStyle = '#d4ae4f'; g.font = '600 120px Georgia, serif'; g.fillText('WikiMuseum', w/2, h/2 - 110);
+  g.fillStyle = '#efe6cf'; g.font = 'italic 54px Georgia, serif'; g.fillText('Diaporama à venir…', w/2, h/2 + 20);
+  g.fillStyle = '#9aa0b8'; g.font = '34px Georgia, serif'; g.fillText('Bravo : tu as validé les 12 salles du musée.', w/2, h/2 + 120);
+})});
+const screen = new THREE.Mesh(new THREE.PlaneGeometry(4.8, 2.7), screenMat); screen.position.set(-8.81, 2.2, 31); screen.rotation.y = Math.PI/2; scene.add(screen);
+const slideTex = []; let slideI = 0, slideT = 0;
+SLIDES.forEach((src, i) => new THREE.TextureLoader().load(src, t => { t.encoding = THREE.sRGBEncoding; slideTex[i] = t; }));
+
+function updateSecret(dt){
+  const inS = roomAt(pos.x, pos.z) === 'S';
+  const dDoor = Math.hypot(pos.x - DOOR.x, pos.z - DOOR.z);
+  const want = unlocked && dDoor < 1.9 && !quizOpen ? 1 : 0;
+  doorOpen += Math.max(-dt*1.1, Math.min(dt*1.1, want - doorOpen));
+  doorMesh.position.z = DOOR.z - doorOpen*(DOOR.w + .04);
+  const idx = segs.indexOf(doorSeg);
+  if (doorOpen < .55 && idx < 0) segs.push(doorSeg); else if (doorOpen >= .55 && idx >= 0) segs.splice(idx, 1);
+  if (!unlocked && mode === 'free' && dDoor < 1.5){ if (!doorHinted){ doorHinted = true; say('Un mur étrange…', 'Ce mur sonne creux. Valide les quiz des 12 salles pour découvrir ce qu’il cache.', 3800); } }
+  else if (dDoor > 2.5) doorHinted = false;
+  if (inS && !secretSeen){ secretSeen = true; say('Salle secrète', 'Bienvenue dans le home cinéma. Installe-toi dans un fauteuil et écoute les oiseaux…', 4500); }
+  if (slideTex.length && inS){ slideT += dt; if (slideT > 7 || !screenMat.userData.started){ slideT = 0; screenMat.userData.started = true; for (let k = 0; k < SLIDES.length; k++){ slideI = (slideI + 1) % SLIDES.length; if (slideTex[slideI]) break; } if (slideTex[slideI]){ screenMat.map = slideTex[slideI]; screenMat.needsUpdate = true; } } }
+}
+
+/* chants d’oiseaux (synthèse) + petit ruisseau */
+let birdBus = null, nextBird = 0, brook = null;
+function chirp(t, f0, f1, dur, vol, pan){
+  const o = actx.createOscillator(), g = actx.createGain(); o.type = 'sine';
+  o.frequency.setValueAtTime(f0, t); o.frequency.exponentialRampToValueAtTime(f1, t + dur);
+  g.gain.setValueAtTime(0, t); g.gain.linearRampToValueAtTime(vol, t + Math.min(.02, dur/3)); g.gain.setTargetAtTime(0, t + dur*.6, dur*.25);
+  let out = g; if (actx.createStereoPanner){ const p = actx.createStereoPanner(); p.pan.value = pan; g.connect(p); out = p; }
+  o.connect(g); out.connect(birdBus); o.start(t); o.stop(t + dur + .3);
+}
+function birdPhrase(t){
+  const pan = Math.random()*1.6 - .8, r = Math.random(), R = (a, b) => a + Math.random()*(b - a);
+  if (r < .3){ const b = R(2400, 3000); chirp(t, b, b*1.3, .18, .07, pan); chirp(t + .26, b*1.3, b*.95, .26, .07, pan); return .7; }
+  if (r < .55){ const n = 6 + (Math.random()*7|0), f = R(3900, 4700); for (let i = 0; i < n; i++) chirp(t + i*.065, f*1.08, f*.92, .05, .045, pan); return n*.065 + .2; }
+  if (r < .85){ let tt = t; const n = 4 + (Math.random()*4|0); for (let i = 0; i < n; i++){ const d = R(.07, .15), f = R(2100, 4400); chirp(tt, f, f*R(.8, 1.25), d, .05, pan); tt += d + R(.04, .1); } return tt - t + .2; }
+  for (let i = 0; i < 2; i++){ chirp(t + i*.75, 640, 540, .38, .05, pan*.5); chirp(t + i*.75 + .42, 560, 500, .22, .035, pan*.5); } return 1.6;
+}
+function updateBirds(){
+  if (!actx) return;
+  if (!birdBus){
+    birdBus = actx.createGain(); birdBus.gain.value = 0; birdBus.connect(actx.destination);
+    const len = actx.sampleRate*3, buf = actx.createBuffer(1, len, actx.sampleRate), d = buf.getChannelData(0); let b = 0;
+    for (let i = 0; i < len; i++){ b = .97*b + .03*(Math.random()*2 - 1); d[i] = b*3; }
+    brook = actx.createBufferSource(); brook.buffer = buf; brook.loop = true;
+    const f = actx.createBiquadFilter(); f.type = 'bandpass'; f.frequency.value = 700; f.Q.value = .6;
+    const g = actx.createGain(); g.gain.value = .12; brook.connect(f); f.connect(g); g.connect(birdBus); brook.start();
+    nextBird = actx.currentTime + .5;
+  }
+  const on = soundOn && roomAt(pos.x, pos.z) === 'S';
+  birdBus.gain.setTargetAtTime(on ? 1 : 0, actx.currentTime, .6);
+  if (on && actx.currentTime > nextBird - .1){ const t = Math.max(actx.currentTime + .05, nextBird); nextBird = t + birdPhrase(t) + .4 + Math.random()*2.2; }
+}
+
 let last = performance.now();
 function tick(now){
   const dt = Math.min(.05, (now - last) / 1000); last = now;
   resize();
   if (!quizOpen){ if (mode === 'tour') tourStep(dt); else freeStep(dt); }
   bowT = Math.max(0, bowT - dt); updateRoses(dt); updateWarp(dt);
-  updateGuards(dt); updateVisitors(dt); updateBalls(dt); updatePunch(dt); updateNotes(dt); updateKiosk(); updateAudio();
+  updateGuards(dt); updateVisitors(dt); updateBalls(dt); updatePunch(dt); updateNotes(dt); updateKiosk(); updateAudio(); updateSecret(dt); updateBirds();
   if (mode === 'tour' && !drag){ look.idle += dt; if (look.idle > 1.6){ const k = Math.min(1, dt*2.5); look.yaw -= look.yaw*k; look.pitch -= look.pitch*k; } }
   const lt = mode === 'tour';
   cam.position.set(pos.x, EYE + pos.y, pos.z); cam.rotation.set(pos.pitch + (lt ? look.pitch : 0), pos.yaw + (lt ? look.yaw : 0), 0);
